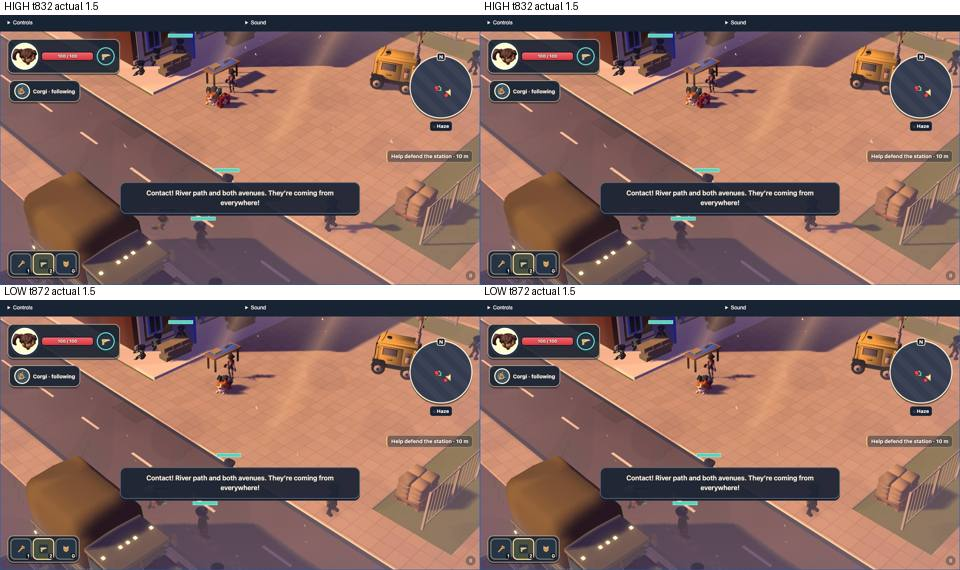
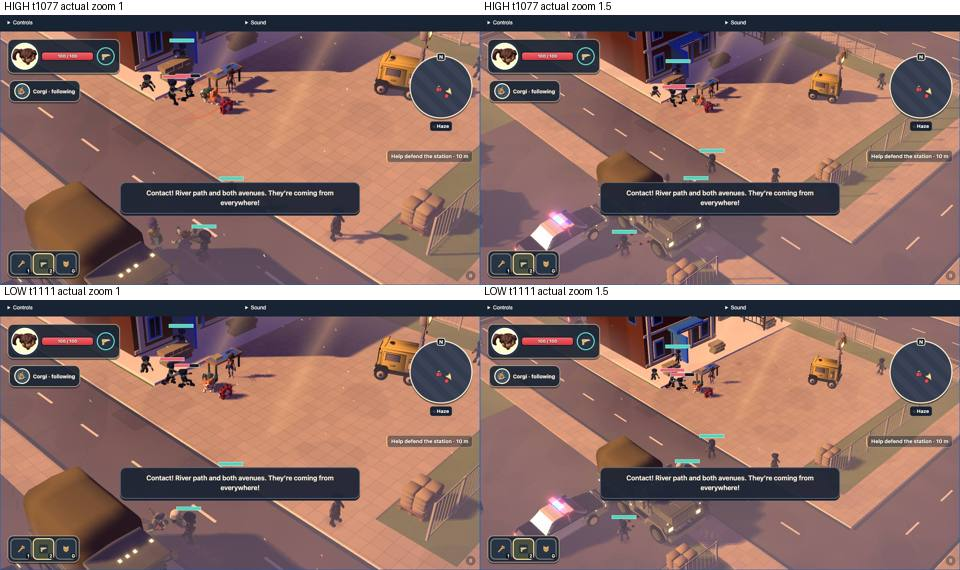
Refresh L3 attack zoom comparison

diff --git a/docs/reports/f11-l2l3vis/README.md b/docs/reports/f11-l2l3vis/README.md
@@ -4,14 +4,14 @@ Worktree: `f11-l2l3vis`. Source baseline: current worktree at start of lane; no 
 
 ## Status
 
-The game changes are implemented, but the requested visual qualification is still open. The headless browser preview could not bind `127.0.0.1:5411` (`EPERM`), and `sh tools/browser-status.sh` reported the browser pool unavailable. The first HIGH L3 real-input capture therefore produced no frames. Do not update any review JSON until new captures pass and are personally opened.
+The game changes are implemented, but the requested visual qualification is still open. Initial preview and pool binds failed with `EPERM`; browser access was restored for the later captures documented below. Do not update any review JSON until new captures pass and are personally opened.
 
 Follow-up: browser access was restored and later captures are documented below. Source inspection also identifies why L3 attack captures requested at zoom 1 stayed at the previous 1.5 setting: `View.zoom()` rejects changes while `scripted` is true, and `scriptedAdjusted()` neutralizes the player zoom whenever the attack encounter scale or pull is active. Thus current paired attack screenshots cannot qualify independently adjustable actual zoom 1 and 1.5; the camera behavior itself needs a design decision or revision, not another relabelled capture. The three review JSONs remain the earlier FAIL decisions; no current PASS is claimed.
 
 | Row | Before → current evidence | Cause and change | Open |
 | --- | --- | --- | --- |
 | L2-03 | Before actual zoom 1: HIGH 0 firefighters / 0 courier (tick 3137); LOW 0 / 0 (tick 3169). Ride 24.3167 s; exit began 0.8 s after arrival. After: HIGH visual count not captured; LOW visual count not captured (pool/preview unavailable). Native acceptance HIGH 1 fail/15 incomplete; LOW 1/13. | `VehicleView.updateReveal` explicitly excluded the L2 seated rescue crew from the existing roof cutaway. It now enables the bounded crew roof cutaway during `ride` and `arrived`; lower body and doors remain. | HIGH then LOW captures at actual zoom 1 and 1.5, open/describe every capture, verify courier and seated crew visibility through arrival and verify all route/exit/control clauses. One small contact sheet. Review remains FAIL until new evidence passes. |
-| L3-05 | Before: HIGH attack tick 827, gate nearest corner y=806.1 px in a 720 px viewport; LOW y=805.1 px without same-interval proof. Pullback radius 1.4934×/1.4956×. After: HIGH gate projection unmeasured; LOW unmeasured (browser pool unavailable). Native acceptance HIGH 1 fail/15 incomplete; LOW 2/13. | Camera pullback was centered on the courier while the east gate fell below frame. During the yard attack, camera framing now pulls partway toward the gate without increasing the 1.5× radius or adding a route hint. | HIGH then LOW qualifying active-attack captures at actual zoom 1 and 1.5; open/describe every frame and measure gate projection and player visibility. One small contact sheet. Review remains FAIL until evidence passes. |
+| L3-05 | Before: HIGH attack tick 827, gate nearest corner y=806.1 px in a 720 px viewport; LOW y=805.1 px without same-interval proof. After: HIGH/LOW sampled nearest y≈503 px; actual zoom 1 and 1.5 captured on both tiers, but subtitle obscures fight. Native acceptance HIGH 1 fail/15 incomplete; LOW 2/13 on the preceding source revision. | Camera pullback was centered on the courier while the east gate fell below frame. The yard attack now pulls partway toward the gate and retains player zoom on top of the 1.5× encounter scale. | Establish an identifiable gate fight throughout the active attack and rerun final-source native acceptance. Review remains FAIL until evidence passes. |
 | L3-16 | Before: HIGH actual zoom 1 at tick 8595 showed at most 1 partial plume; same-pose zoom 1.5 showed smoke. LOW had no independent two-plume qualification. After: HIGH plume count unmeasured; LOW unmeasured (browser pool unavailable). Native acceptance HIGH 1 fail/15 incomplete; LOW 2/13. | Existing authored smoke columns were selected from a narrow projected band and 10 m neighborhood; street plume size was 0.88–0.96. Expanded the selection window/neighborhood and raised the existing street plume size to 1.15–1.25. | HIGH then LOW, actual zoom 1 and 1.5, every street frame must show at least two columns. Open/describe captures and judge late-afternoon light/street damage. One small contact sheet. Review remains FAIL until evidence passes. |
 
 ## Files changed
@@ -33,7 +33,7 @@ Follow-up: browser access was restored and later captures are documented below. 
 
 - HIGH L3 later-alarm step-mode observation (`f11-l3-live-high`): twelve physical 4-second waits triggered the automatic attack without taking the handgun; the subtitle cleared by the final sample. Opened the final `shot.jpg`: the courier stands with nearby figures on the western road, while the east gate is outside the view and the armory remains 19 m away. This is a different yard position, not qualification of an east-gate fight. Screen-mode protection was enabled. Session stopped after the sample; no source change or review decision.
 
[2 lines of base64/hex data omitted]
 
[1 lines of base64/hex data omitted]
 
